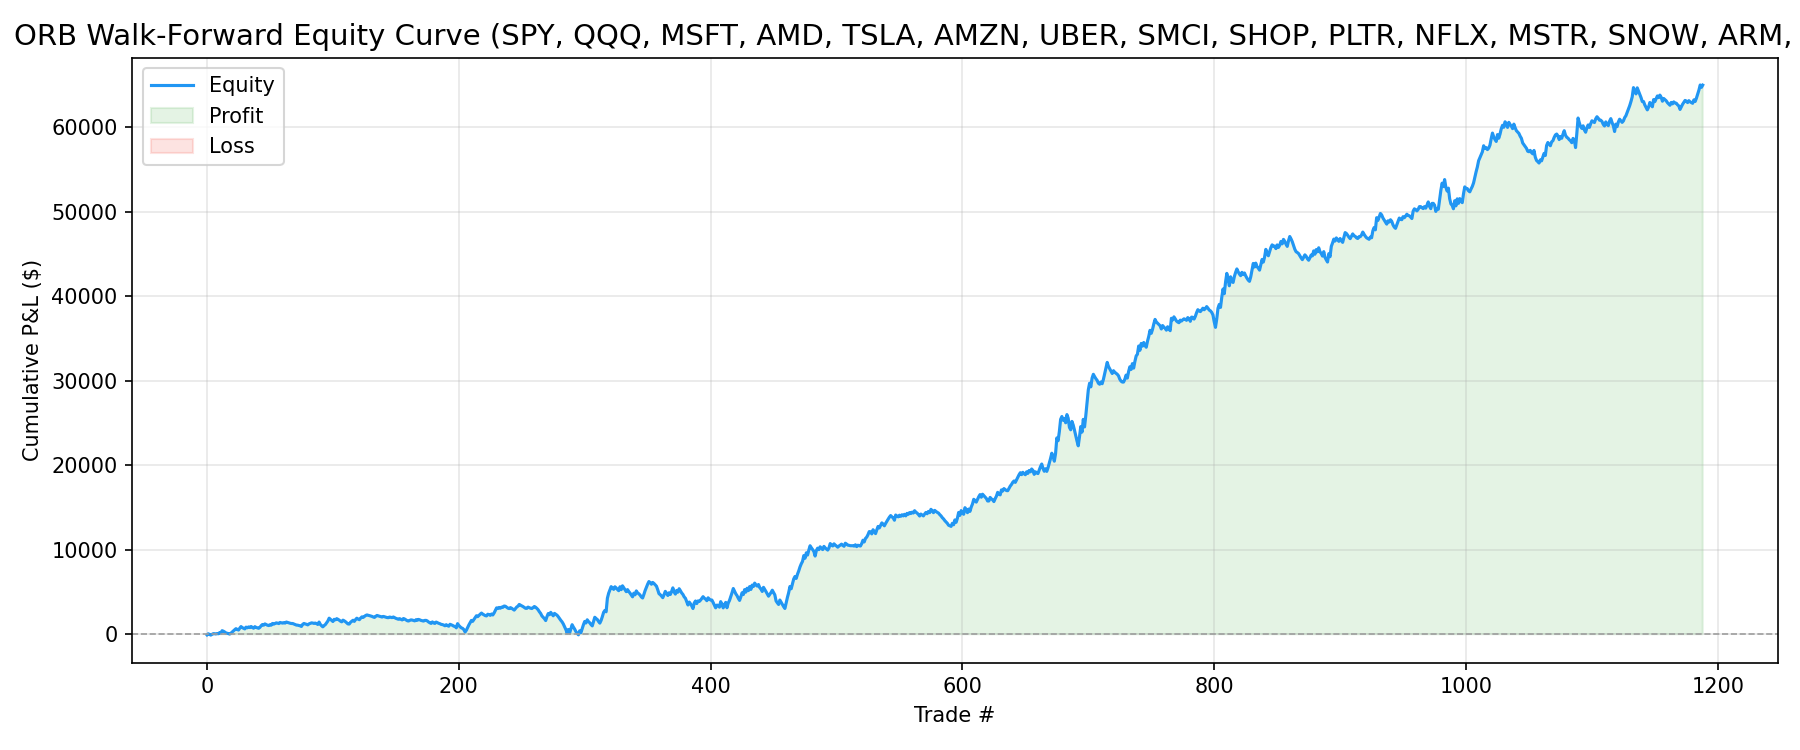
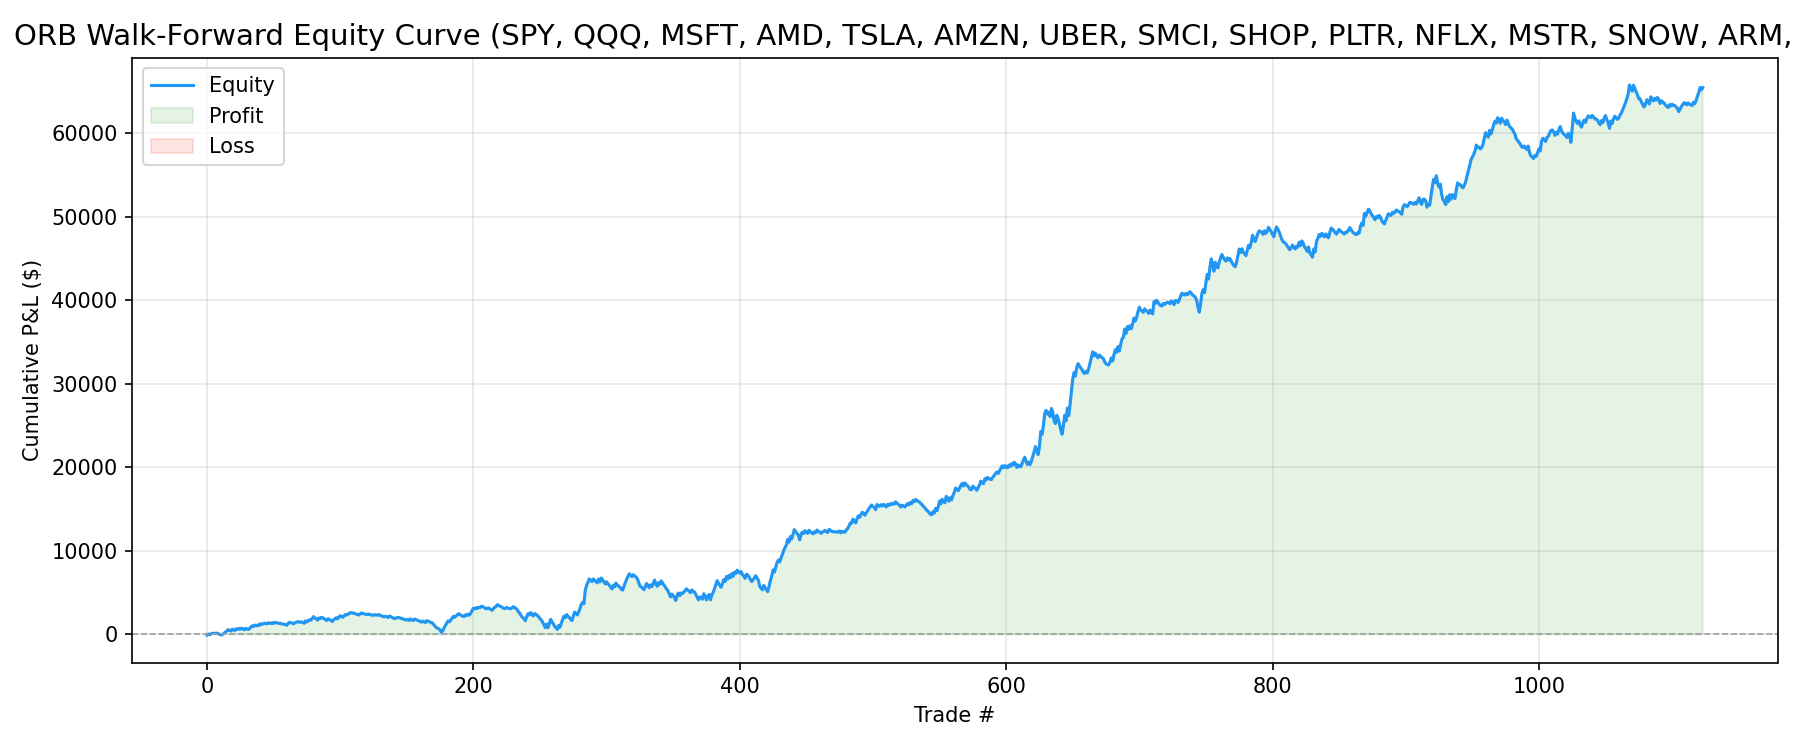
D1b: Block HVN-target trades — PF 1.48, Sharpe 2.40, best drawdown

diff --git a/src/backtest/engine.py b/src/backtest/engine.py
@@ -851,16 +851,15 @@ class ORBStrategy(Strategy):  # type: ignore[misc]
         # Consecutive-candle confirmation: require prev bar also outside ORB
         prev_close = float(self.data.Close[-2]) if len(self.data.Close) >= 2 else float("nan")
 
-        # ── VP intersection tagging helper ──────────────────────────────
-        def _vp_tags(target_price: float, entry_price: float) -> str:
-            """Build VP tag string based on target zone vs prior-day VP levels.
+        # ── VP intersection check ─────────────────────────────────────
+        def _vp_check(target_price: float, entry_price: float) -> tuple[bool, str]:
+            """Check VP intersection and return (blocked, tag_string).
 
-            Checks:
-              - VP_LVN_TARGET: target is outside Value Area (beyond VAH for longs,
-                below VAL for shorts) → path through low-volume zone, less resistance.
-              - VP_HVN_TARGET: target must cross through the Value Area (high volume
-                zone between VAL and VAH) → more resistance to reach target.
-              - VP_POC_CROSS: entry-to-target path crosses POC → magnet/barrier.
+            Returns:
+                (blocked, tag): blocked=True if target is inside Value Area
+                (VP_HVN_TARGET), meaning high-volume resistance will likely
+                prevent target from being reached.  tag is a comma-separated
+                string of VP tags for the trade log.
             """
             parts: list[str] = []
             vp_poc_val = float(self.vp_poc[-1])
@@ -868,16 +867,18 @@ class ORBStrategy(Strategy):  # type: ignore[misc]
             vp_val_val = float(self.vp_val[-1])
 
             if np.isnan(vp_poc_val):
-                return ""
+                return False, ""
+
+            blocked = False
 
             # Target beyond Value Area → moving through LVN (low resistance)
             if target_price > vp_vah_val or target_price < vp_val_val:
                 parts.append("VP_LVN_TARGET")
 
-            # Target path crosses through Value Area interior → HVN resistance
-            # (entry outside VA, target inside or on other side of VA)
+            # Target inside Value Area → HVN resistance → BLOCK
             if vp_val_val < target_price < vp_vah_val:
                 parts.append("VP_HVN_TARGET")
+                blocked = True
 
             # POC cross: entry-to-target path crosses POC
             if (entry_price < vp_poc_val < target_price) or (
@@ -885,7 +886,7 @@ class ORBStrategy(Strategy):  # type: ignore[misc]
             ):
                 parts.append("VP_POC_CROSS")
 
-            return ",".join(parts)
+            return blocked, ",".join(parts)
 
         # LONG breakout: two consecutive closes above ORB high
         if (
@@ -901,7 +902,9 @@ class ORBStrategy(Strategy):  # type: ignore[misc]
             if risk <= 0:
                 return
             target = entry + dynamic_risk_mult * risk
-            tag = _vp_tags(target, entry)
+            vp_blocked, tag = _vp_check(target, entry)
+            if vp_blocked:
+                return
             self.buy(sl=stop, tp=target, tag=tag if tag else None)
             self._daily_trade_count += 1
 
@@ -919,7 +922,9 @@ class ORBStrategy(Strategy):  # type: ignore[misc]
             if risk <= 0:
                 return
             target = entry - dynamic_risk_mult * risk
-            tag = _vp_tags(target, entry)
+            vp_blocked, tag = _vp_check(target, entry)
+            if vp_blocked:
+                return
             self.sell(sl=stop, tp=target, tag=tag if tag else None)
             self._daily_trade_count += 1
 
